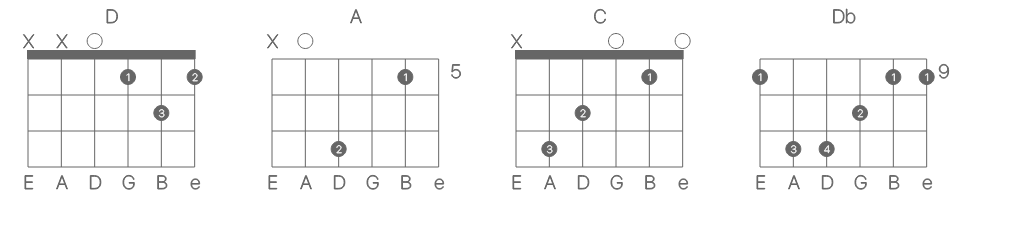
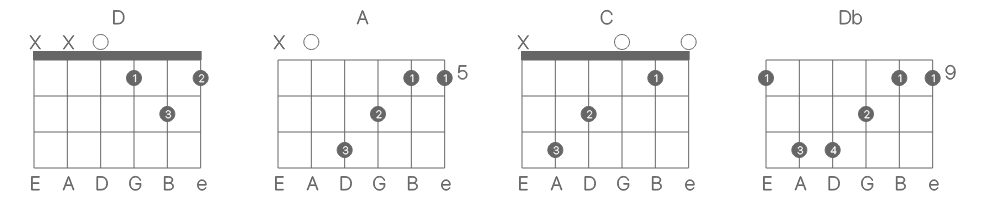
fix diagram

diff --git a/index.html b/index.html
@@ -9,7 +9,7 @@
     </head>
     <body>
 	<chord name = "D" positions="xx0232" fingers="---132"></chord>
-	<chord name = "A" positions="x07655", fingers="432-1-"> </chord>
+	<chord name = "A" positions="x07655", fingers="--3211"> </chord>
 	<chord name = "C" positions="x32010" fingers="-32-1-"> </chord>
 	<chord name = "Db" positions="9 11 11 10 9 9" fingers="134211"> </chord>    </body>
 
